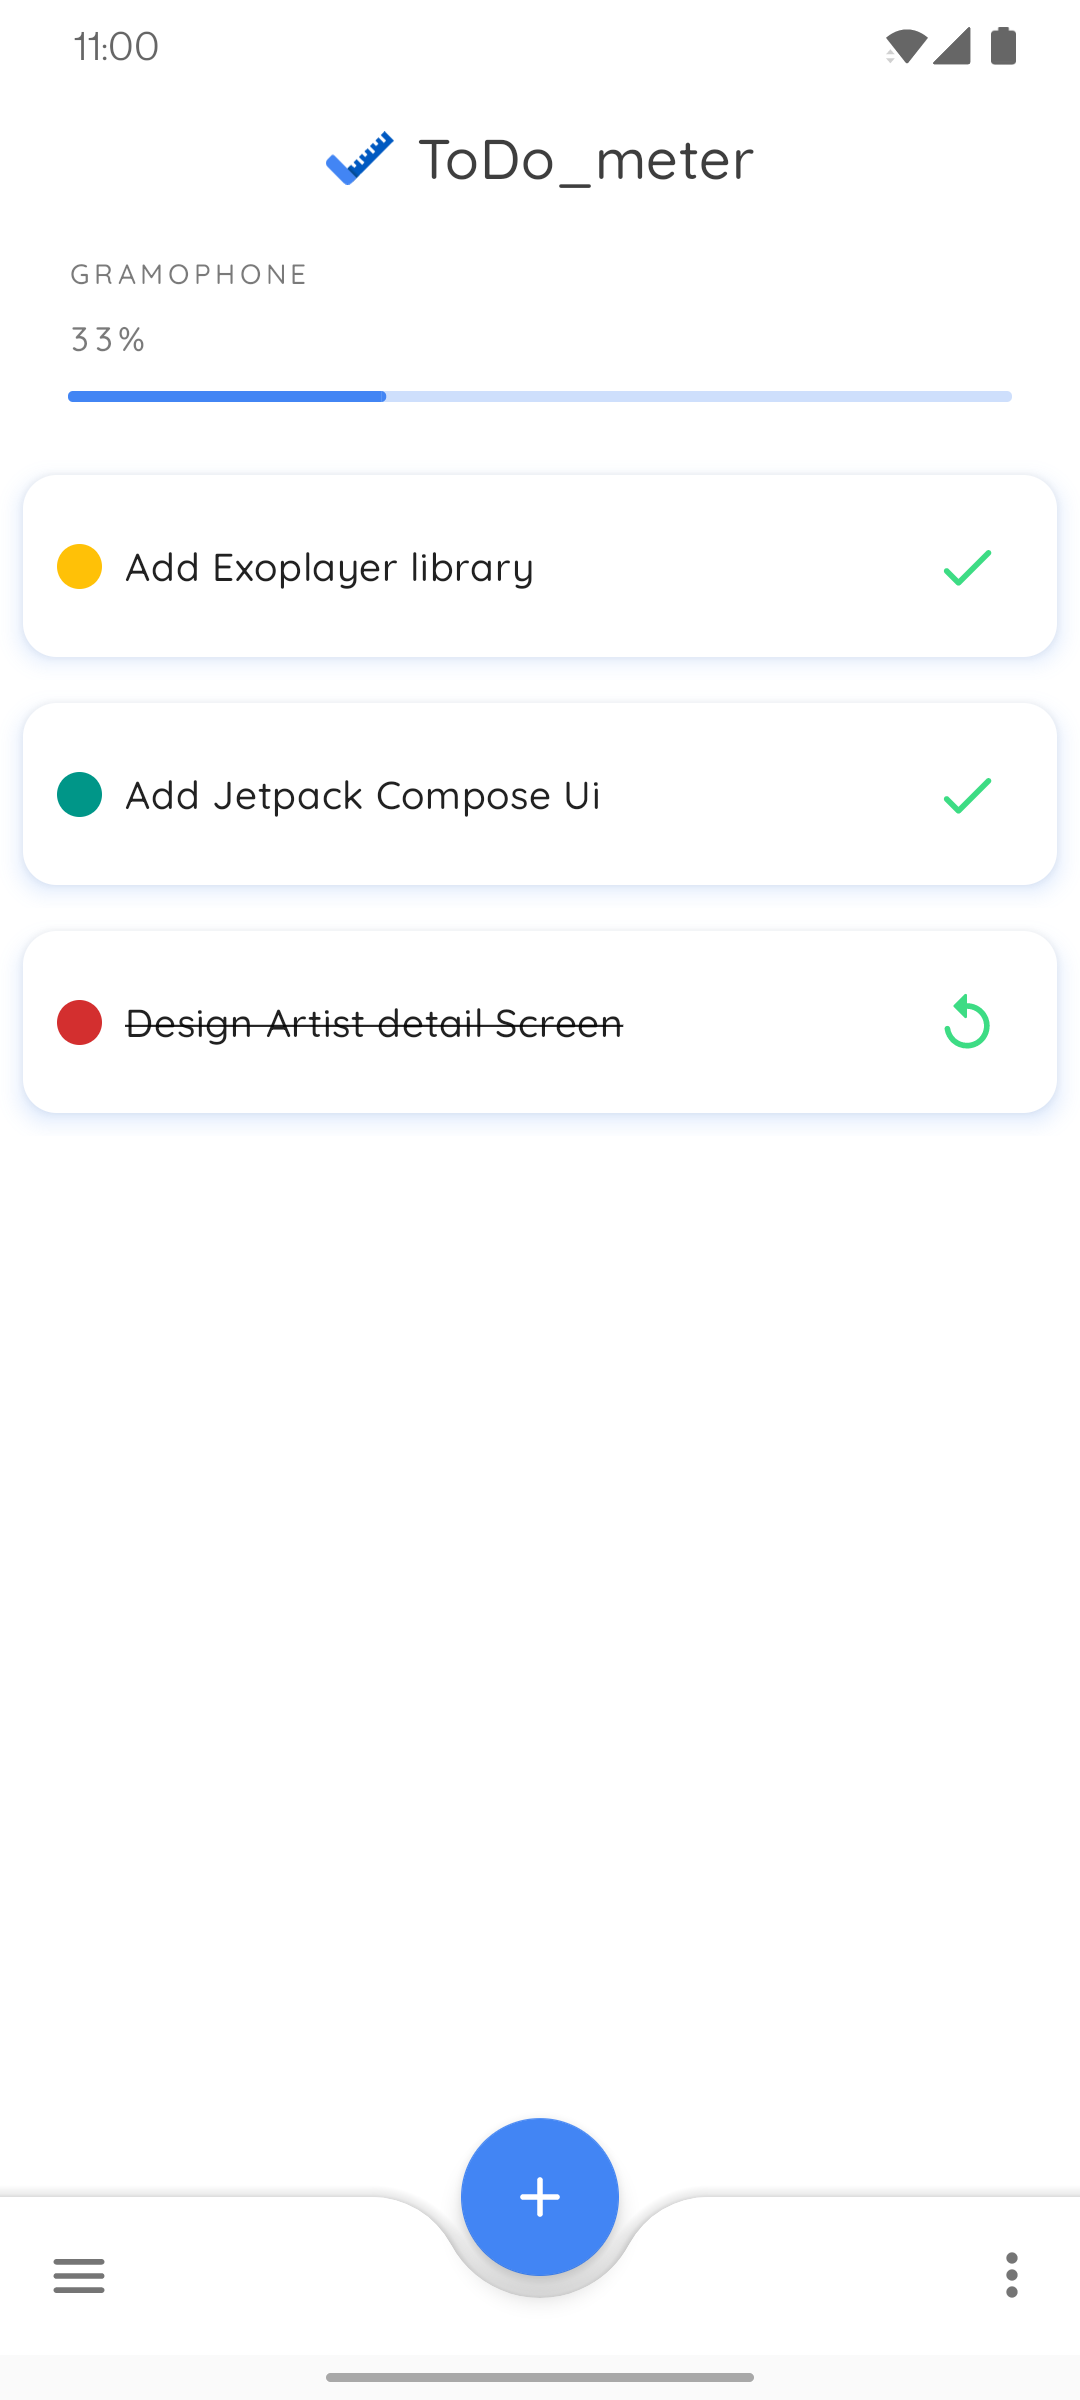
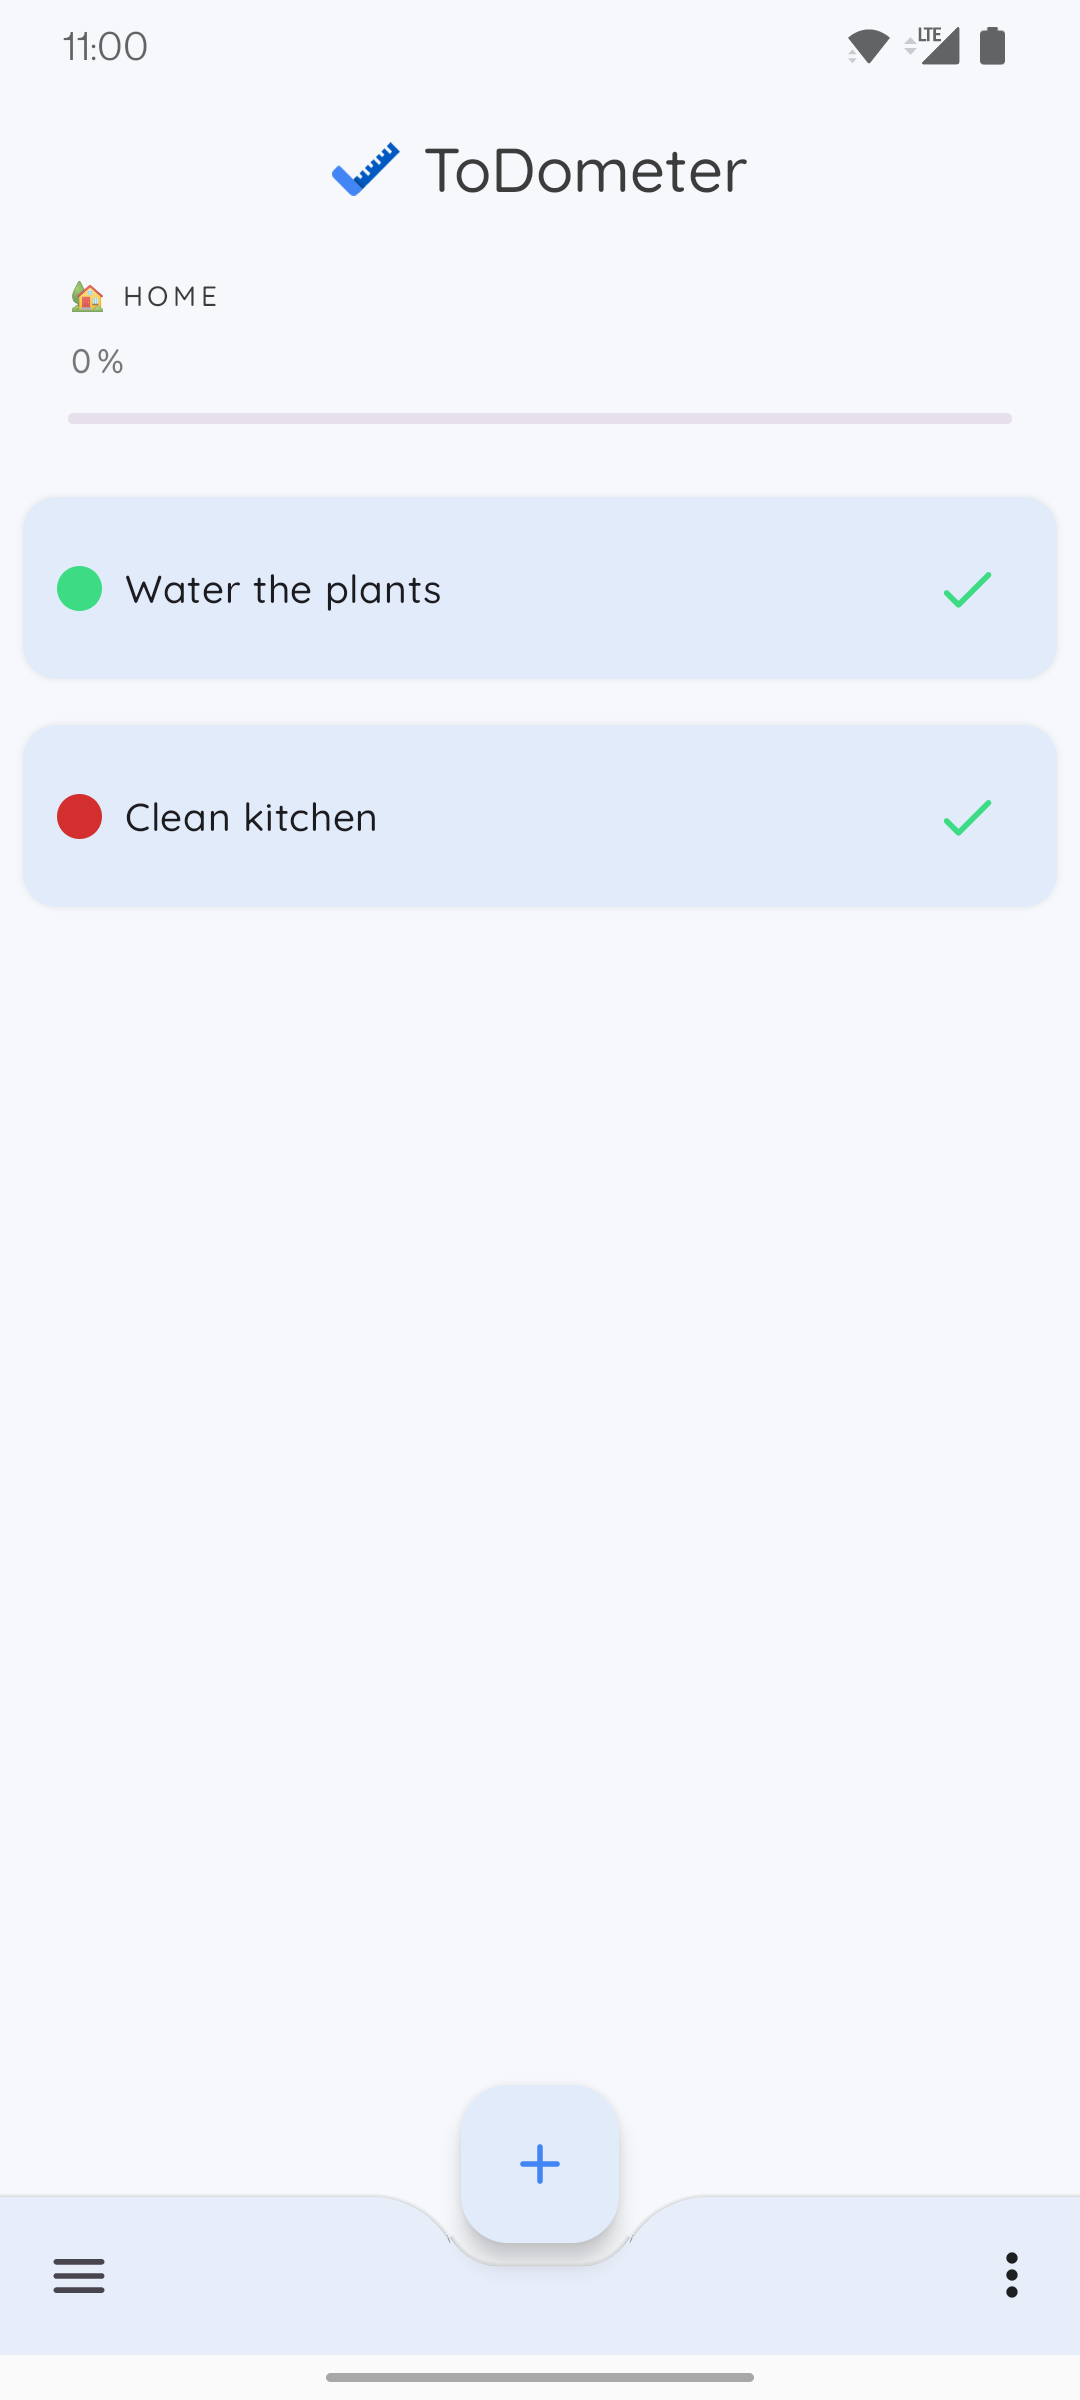
Update README.md and screenshots

diff --git a/README.md b/README.md
@@ -41,6 +41,7 @@ Migration to Multiplatform: https://github.com/serbelga/ToDometer_Multiplatform
   * [Material Theming](https://material.io/design/material-theming/overview.html)
   * [Dark Theme](https://material.io/design/color/dark-theme.html)
   * [Motion](https://material.io/develop/android/theming/motion)
+  * [Dynamic color](https://m3.material.io/styles/color/dynamic-color/overview)
 
 ## Resources
 * List illustrations: https://undraw.co/
@@ -52,11 +53,7 @@ Migration to Multiplatform: https://github.com/serbelga/ToDometer_Multiplatform
 
 ## Screenshots
 
-Add ToDo | Check Done | Edit Task | Delete Task
---- | --- | --- | ---
-<img align="center" src="./resources/add_task.gif" width="240"> | <img align="center" src="./resources/tasks_doing_done.gif" width="240"> | <img align="center" src="./resources/edit_task.gif" width="240"> | <img align="center" src="./resources/delete_task.gif" width="240">
-
-<h3 align="center">⚪⚫ Light and Dark themes</h3></br>
+<h3 align="center">⚪ ⚫ Light and Dark theme</h3></br>
 
 <p align="center">
 <img align="center" src="./screenshots/tasks.png" width="240"> 
